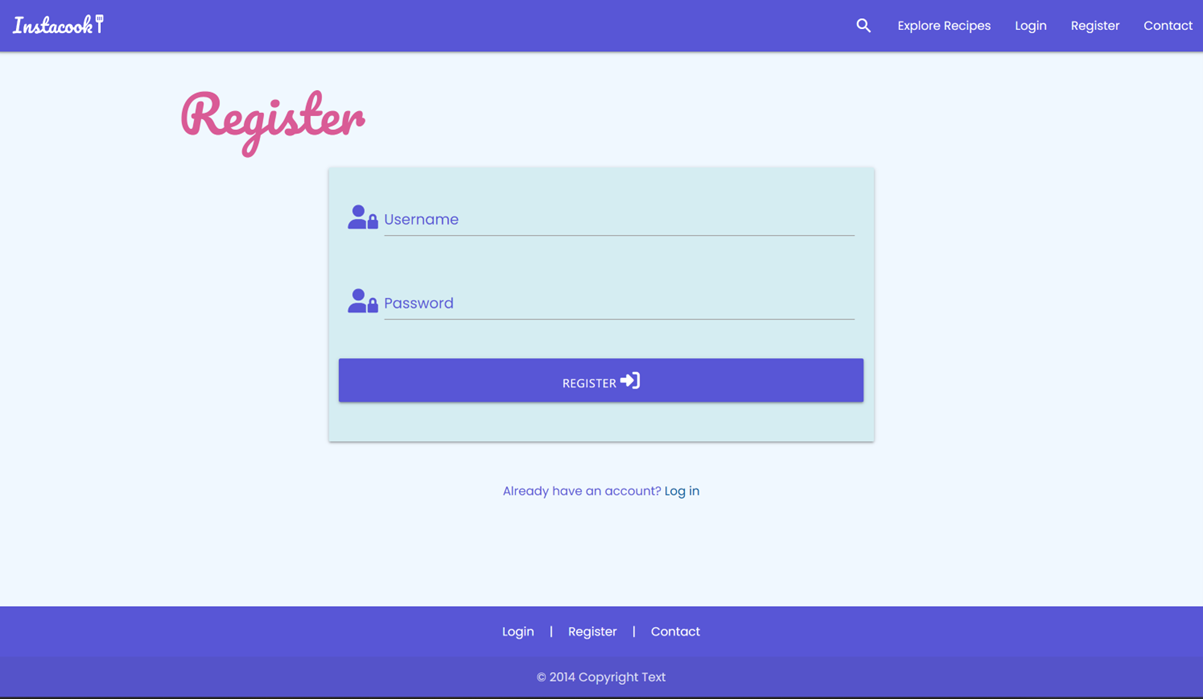
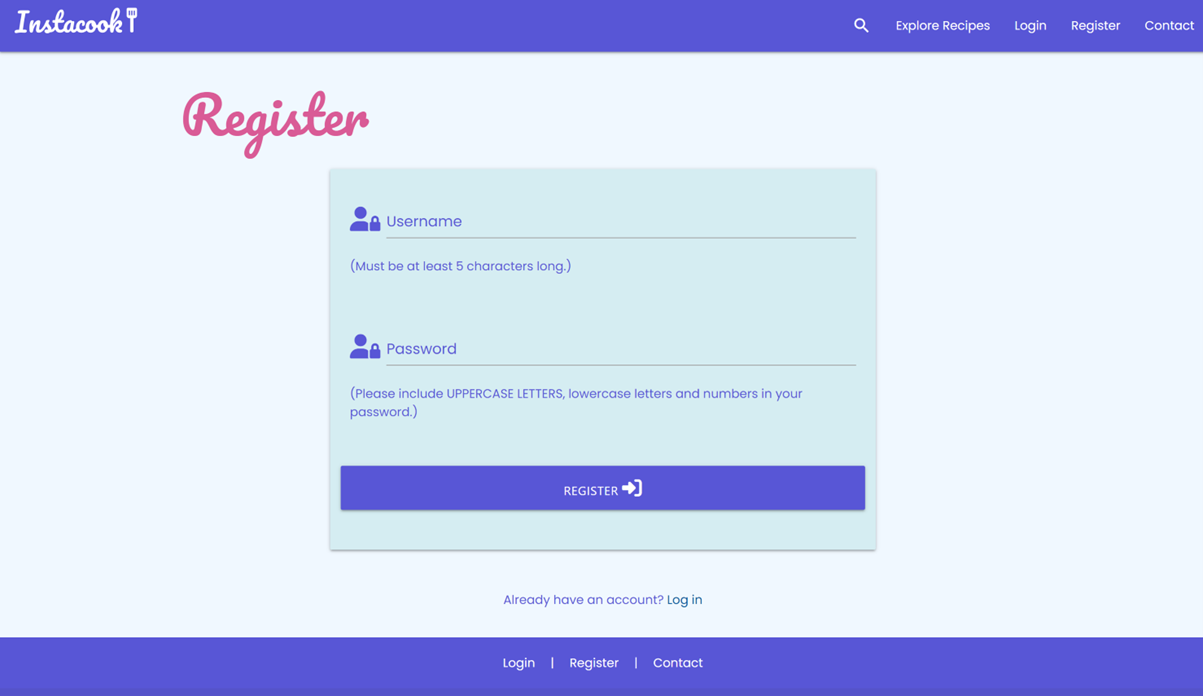
features section content added

diff --git a/README.md b/README.md
@@ -137,40 +137,109 @@ I chose a cursive font for titles, 'Pacifico' and 'Poppins' a simple sans-serif 
 
 * My site is fully responsive and can be viewed and used effectively on all screen sizes down to 320px width by 480px height.
 * I have considered readability contrast carefully for all visual elements.
-* I have included a Favicon page tab icon to make the page look professional and consistent.
+* __Favicon__ - I have included a Favicon page tab icon to make the page look professional and consistent.
 
 ![Favicon screenshot](recipes/static/assets/readme-images/favicon.png)
 
-### Logo
+* __Reponsive Nav Bar__ - The navigation bar at the top of all the pages reduces to an accordion menu on tablet and mobile view for ease for use for the user. The options displayed on the nav bar are also dependent on whether a user is logged in or not, for an optimum user experience where options, such as 'Register' are no longer visible for logged in users. This keeps the pages clean and easier to navigate. I have included a search icon as well as 'Explore Recipes' as some users respond more to icons rather than text and vice versa. This way both types of users will find it easy to navigate to the search recipes page in one click.
+
+* __Footer__ - Just like the nav bar, the links displayed in the footer are also dependent on whether a user is logged in or not, for an optimum user experience where options, such as 'Register' are no longer visible for logged in users. This keeps the pages clean and easier to navigate.
+
+* __Logo__ - I created my simple text logo using the Pacifico font to keep a design consistency within the site.
+
 ![Logo in navigation bar](recipes/static/assets/readme-images/nav-bar-logo.png)
 
-* I created my simple text logo using the Pacifico font to keep a design consistency within the site.
+* __Flash Messages__ - At various actions, messages will flash at the top of the page just below the nav bar to confirm to the user for instance, that a user account has been created, or a cookbook has been deleted. This gives the user a clear explanation of what has happened to avoid any unnecessary confusion.
 
 ## Landing page
-
 ![Home page screenshot](recipes/static/assets/readme-images/home-page.png)
 
-* To keep things clear I have sectioned out the page, so that the ingredients are on the left and the coffee drink is on the right to be created and filled up by the user. In mobile and tablet, the cup appears at the top with the ingredients at the bottom so the user instinctively reads the drink name first, sees the cup to fill and then proceeds to the ingredients to make choices.
+* __Hero image slider__ - I wanted to include something visually impactful to the home page to the user a positive emotional response when they land. It also draws the eye of the user to the main call to actions - 'Log in' or 'Register', so both new users and returning users can navigate quickly to get started using the app features. There a 3 large images that the slider flips through, to also suggest to the user they can go straight into exploring existing recipes on the search page.
 
 ### Register page
 
-![Login page screenshot](recipes/static/assets/readme-images/register-page.png)
+![Register page screenshot](recipes/static/assets/readme-images/register-page.png)
 
-* I c
+* __Registration form__ - This form submits a new username and password to the database and starts a session cookie, which triggers the user dashboard to be active and display the user's cookbooks / give them the option to create cookbooks to start collating recipes into.
+
+* __Password pattern required__ -  To make sure the user is creating strong passwords to keep their account secure, I have included an HTML5 regex pattern, so that the registration form will not submit unless the user has conformed to the requirements.
+
+* __Requirement descriptions__ -  So it is clear what patterns are required for passwords and usernames, I have included explanations under each input field.
 
 ### Login page
 
 ![Login page screenshot](recipes/static/assets/readme-images/login-page.png)
 
+* __Login form__ - This form starts a session cookie, which triggers the user dashboard to be active and display the user's cookbooks / give them the option to create cookbooks to start collating recipes into.
+
+* __Requirement descriptions__ -  So it is clear what patterns are required for passwords and usernames, I have included explanations under each input field.
+
+
 ### Explore recipes page
 
 ![Search page screenshot](recipes/static/assets/readme-images/search-page.png)
+
+* __Dropdown filters__ - I have included 3 dropdown filters for meal type, dish origin and star rating to give the user a few options of how they would like the filter and search through all the recipes on the database.
+
+* __Clear selection button__ - This button allows to quicky refresh all the filters in one simple click when desired.
+
+* __Collapsible recipe view__ - The collapsible recipe view allows more recipe titles to list on the screen at any given time, whilst also providing the user the ability to drill down into their chosen recipe content with one click.
+
+### User dashboard page
+
+![Dashboard page screenshot](recipes/static/assets/readme-images/dashboard-page.png)
+
+* __Cookbook cards__ - 
+
+* __Add cookbook button__ -
+
+* __View recipes button__ -
+
+* __Add recipe button__ -
+
+* __Edit and delete Cookbook buttons__ -
+
+### User recipes page
+
+![Recipes page screenshot](recipes/static/assets/readme-images/recipes-in-cookbook-page.png)
+
+* __Add recipes button__ - 
+
+* __Back to cookbook button__ -
+
+* __Collapsible recipe view__ - The collapsible recipe view allows more recipe titles to list on the screen at any given time, whilst also providing the user the ability to drill down into their chosen recipe content with one click.
+
+* __Edit and delete recipe buttons__ -
+
+### Add recipe form
+
+![Add recipe page screenshot](recipes/static/assets/readme-images/add-recipe-page.png)
+
+* __Drop down options__ - 
+
+### Edit recipe form
+
+![Edit recipe page screenshot](recipes/static/assets/readme-images/edit-recipe-page.png)
+
+* __Pre-populated edit recipe__ - 
+
+* __Drop down options__ - 
+
+![Add cookbook page screenshot](recipes/static/assets/readme-images/add-cookbook-page.png)
+
+* __Cookbook name form__ - 
+
+![Edit cookbook name page screenshot](recipes/static/assets/readme-images/edit-cookbook-name-page.png)
+
+* __Edit cookbook name form__ - 
 
 ### Contact Form
 
 ![Contact Form screenshot](recipes/static/assets/readme-images/contact-page.png)
 
-* All inputs are required
+* I have included a functional contact form created using emailjs for users to contact me.
+* When a form is submitted, I receive an email with the user's message, name and email address included so I can respond to their query.
+* All inputs are required.
 * The contact form checks the input is valid before sending and if not it will alert the user - the email input will not work unless a proper email address is added, and you cannot leave any field blank.
 
 ## Thank you page
@@ -187,11 +256,17 @@ I chose a cursive font for titles, 'Pacifico' and 'Poppins' a simple sans-serif 
 
 ## Possible Future Features
 
-* 
+* __Recipe API__ - In future I would like to implement a recipe api, to give the user the opportunity to search through a much larger database of recipes, and give them the oppourtunity to add copies of recipes to their own digital cookbooks.
+* __Shopping List__ - To provide the user with the ability to add items to their own digital shopping list.
+* __Search Bar__ - To implement word search functionality so the user could search recipes using text rather than dropdowns. 
 
 ## Accessibility
 
-# Deployment
+## Media Queries
+
+* I used Media Queries to debug and override some display issues that were not rectified with Materialize's responsive layouts.
+
+# Deployment #
 
 I used Heroku to deploy my site, coupled with ElephantSQL to host my relational database for free.
 
@@ -224,8 +299,8 @@ I used Heroku to deploy my site, coupled with ElephantSQL to host my relational 
     "echo web: python run.py > Procfile"
 
 4. Check both files have been created properly. A couple of potential issues to be made a aware of:
-- Make sure Procfile has the Heroku logo next to it in the file explorer view in your IDE
-- Check that there are no blank lines at the end of the Procfile and delete them if found, as this can prevent it from deploying when being read by Heroku. Save, commit and push these files to your repository.
+* Make sure Procfile has the Heroku logo next to it in the file explorer view in your IDE
+* Check that there are no blank lines at the end of the Procfile and delete them if found, as this can prevent it from deploying when being read by Heroku. Save, commit and push these files to your repository.
 
 5. Login or register on the [Heroku](https://www.heroku.com) homepage.
 
@@ -263,40 +338,38 @@ NOTES:
 12. When the terminal loads, type the following, hitting enter at the end of each line:
 
     python3
+
     from recipes import db
+
     db.create_all()
+
     exit()
 
 13. This has now created the relational database models from your repository into the ElephantSQL database. When you click on 'Open App' on the dashboard, it should now open Instacook.
 
 ### Forking the GitHub Repository
 
-By forking the GitHub Repository we make a copy of the original repository on our GitHub account to view and/or make changes without affecting the original repository by using the following steps...
-
-1. Login to GitHub.
-2. Locate the repository, you can use a link you have been provided with or use the search function in the top left of the screen.
-3. In the top right hand corner of the page locate and click the 'fork' button.
-4. Near the bottom of the page click the green button that says 'Create Fork'.
-5. You should now have a copy of the original repository in your GitHub account.
+Forking allows users to make a copy of an original repository in GitHub and view and make changes to it without changing the original repository. To create a fork:
+1. Once logged into GitHub, follow the link to your chosen GitHub repository, or use the search bar to find it on the GitHub home page.
+2. Once in the repository window, click the 'Fork' drop down arrow button in the top right-hand corner.
+3. Select 'Create new fork'.
+4. Check the details in the window before clicking the green 'Create Fork' button.
+5. You will now be able to find the copy of the repository in your own GitHub account.
 
 ### Making a Local Clone
 
-1. Login to GitHub.
-2. Locate the repository, you can use a link you have been provided with or use the search function in the top left of the screen.
-3. Near the top of the repository click the green 'Code' button.
-4. To clone the repository using HTTPS, under HTTPS copy the link provided.
-5. Open the terminal in your code editor. 
-6. Change the current working directory to the location where you want the cloned directory to be made.
-7. Type git clone, and then paste the URL you copied in Step 3.
-8. Press Enter. Your local clone should be created.
+1. Once logged into GitHub, follow the link to your chosen GitHub repository, or use the search bar to find it on the GitHub home page.
+2. Once in the repository window, click the green 'Code' button.
+3. To clone the repository using HTTPS, copy the link provided below the HTTPS header.
+4. Open a terminal in your code editor.
+5. Change the location in the current working directory to where you want the cloned directory to be created.
+6. Type "git clone" into the terminal, and then paste the URL you copied and click enter.
+7. This should have created a local clone of the repository.
+8. Here is the live link to my website - https://instacook-64f0d9d64709.herokuapp.com/
 
-# Testing
+# Testing #
 
 I have documented my testing in a separate document [TESTING.md](TESTING.md)
-
-# Media Queries
-
-* I used Media Queries to debug and override some display issues that were not rectified with Bootstrap's responsive layouts.
 
 # Technologies Used #
 
@@ -348,7 +421,12 @@ I have documented my testing in a separate document [TESTING.md](TESTING.md)
 * Code Institute relational database walkthrough helped me work out how to create and best approach creating this project.
 * Google fonts for ['Silkscreen' typography.](https://fonts.google.com/specimen/Silkscreen) and ['Rubik' typography.](https://fonts.google.com/specimen/Rubik)
 * Logo and favicon I designed myself.
-* Images from [Pexels](pexels.com).
+* Images in the hero slider are from [Pexels](pexels.com):
+    * https://www.pexels.com/photo/steak-food-769289/
+    * https://www.pexels.com/photo/vegetable-salad-3026808/
+    * https://www.pexels.com/photo/ice-cream-on-bowl-beside-spoon-1343504/
+    * https://www.pexels.com/photo/assorted-salads-on-bowls-1640773/
+
 
 
 ### Thanks
